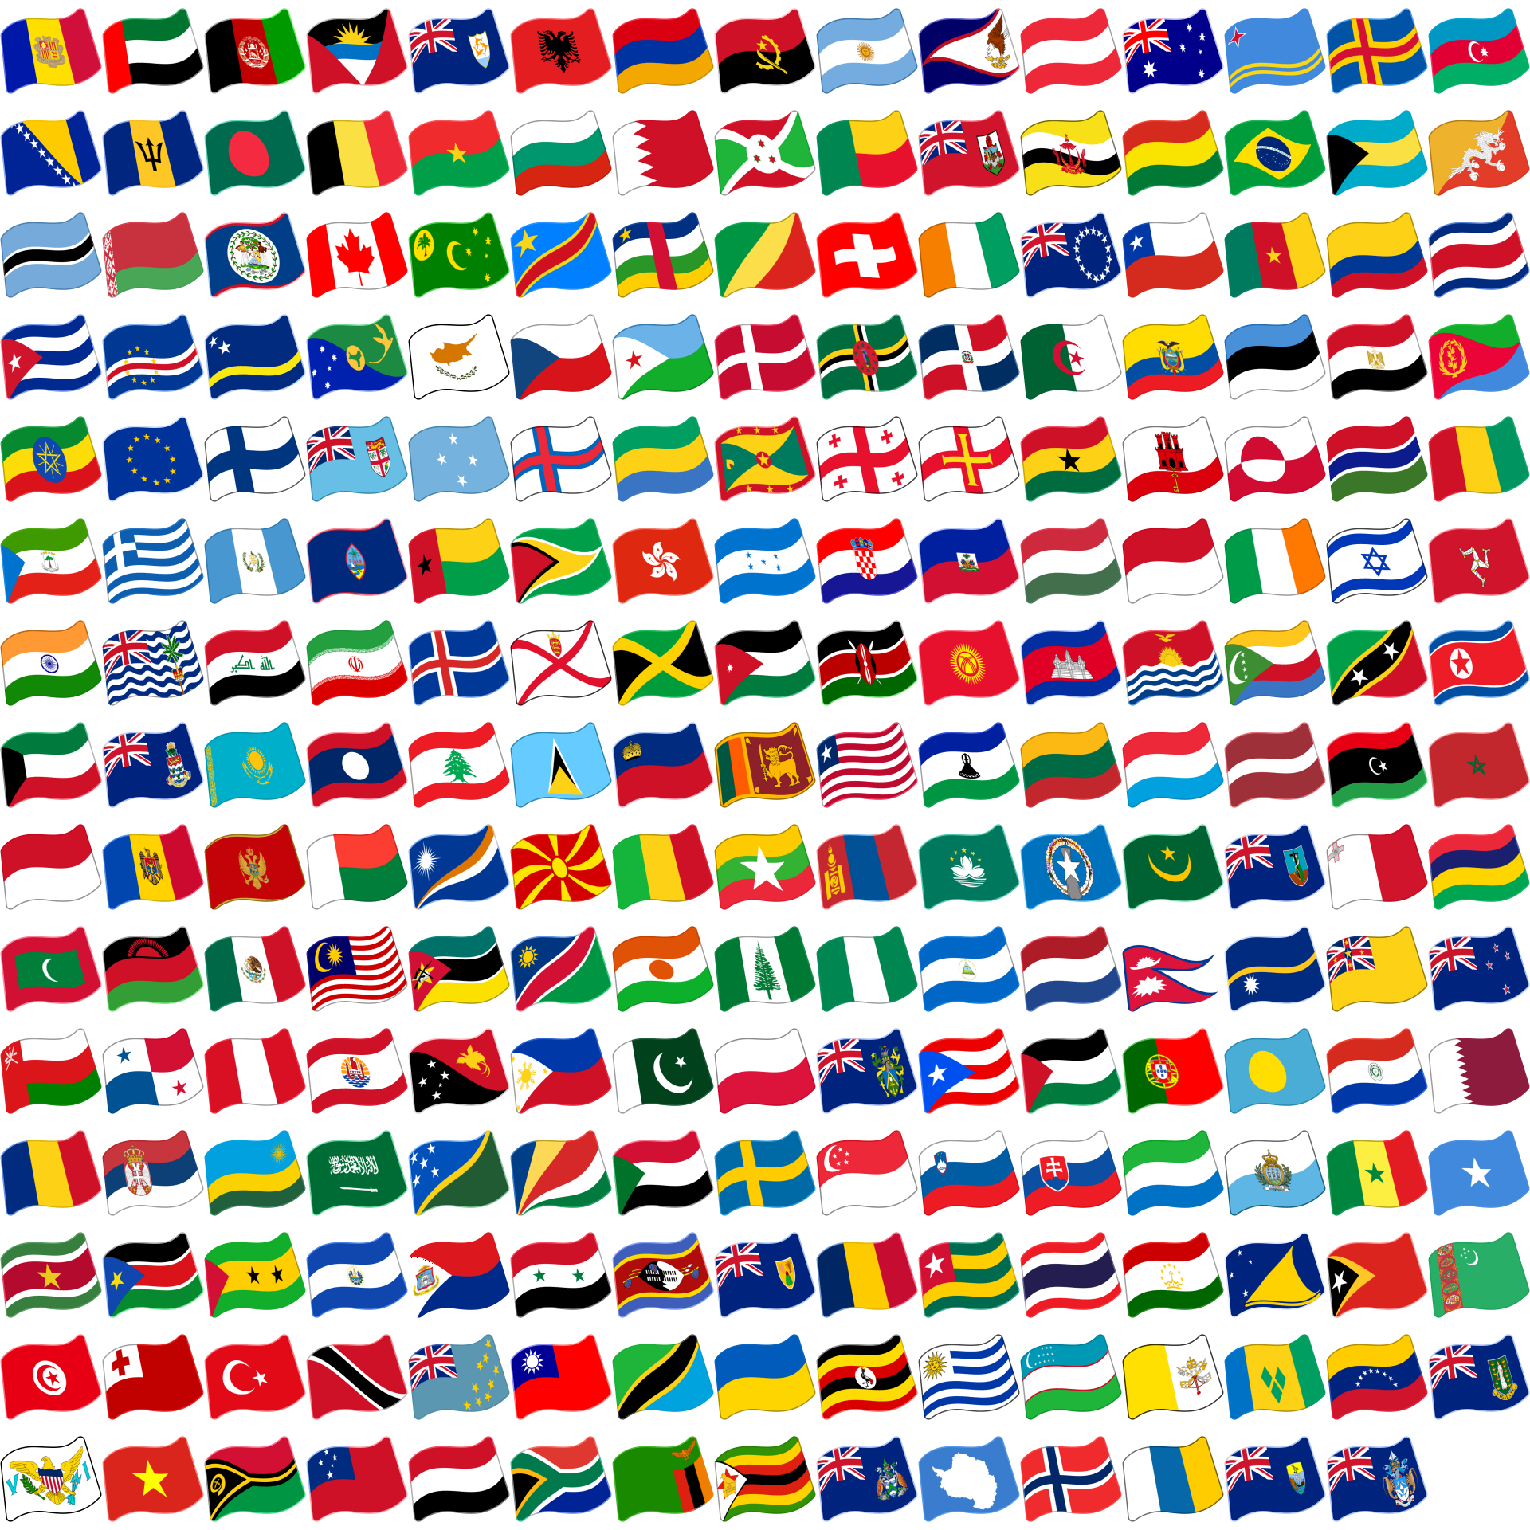
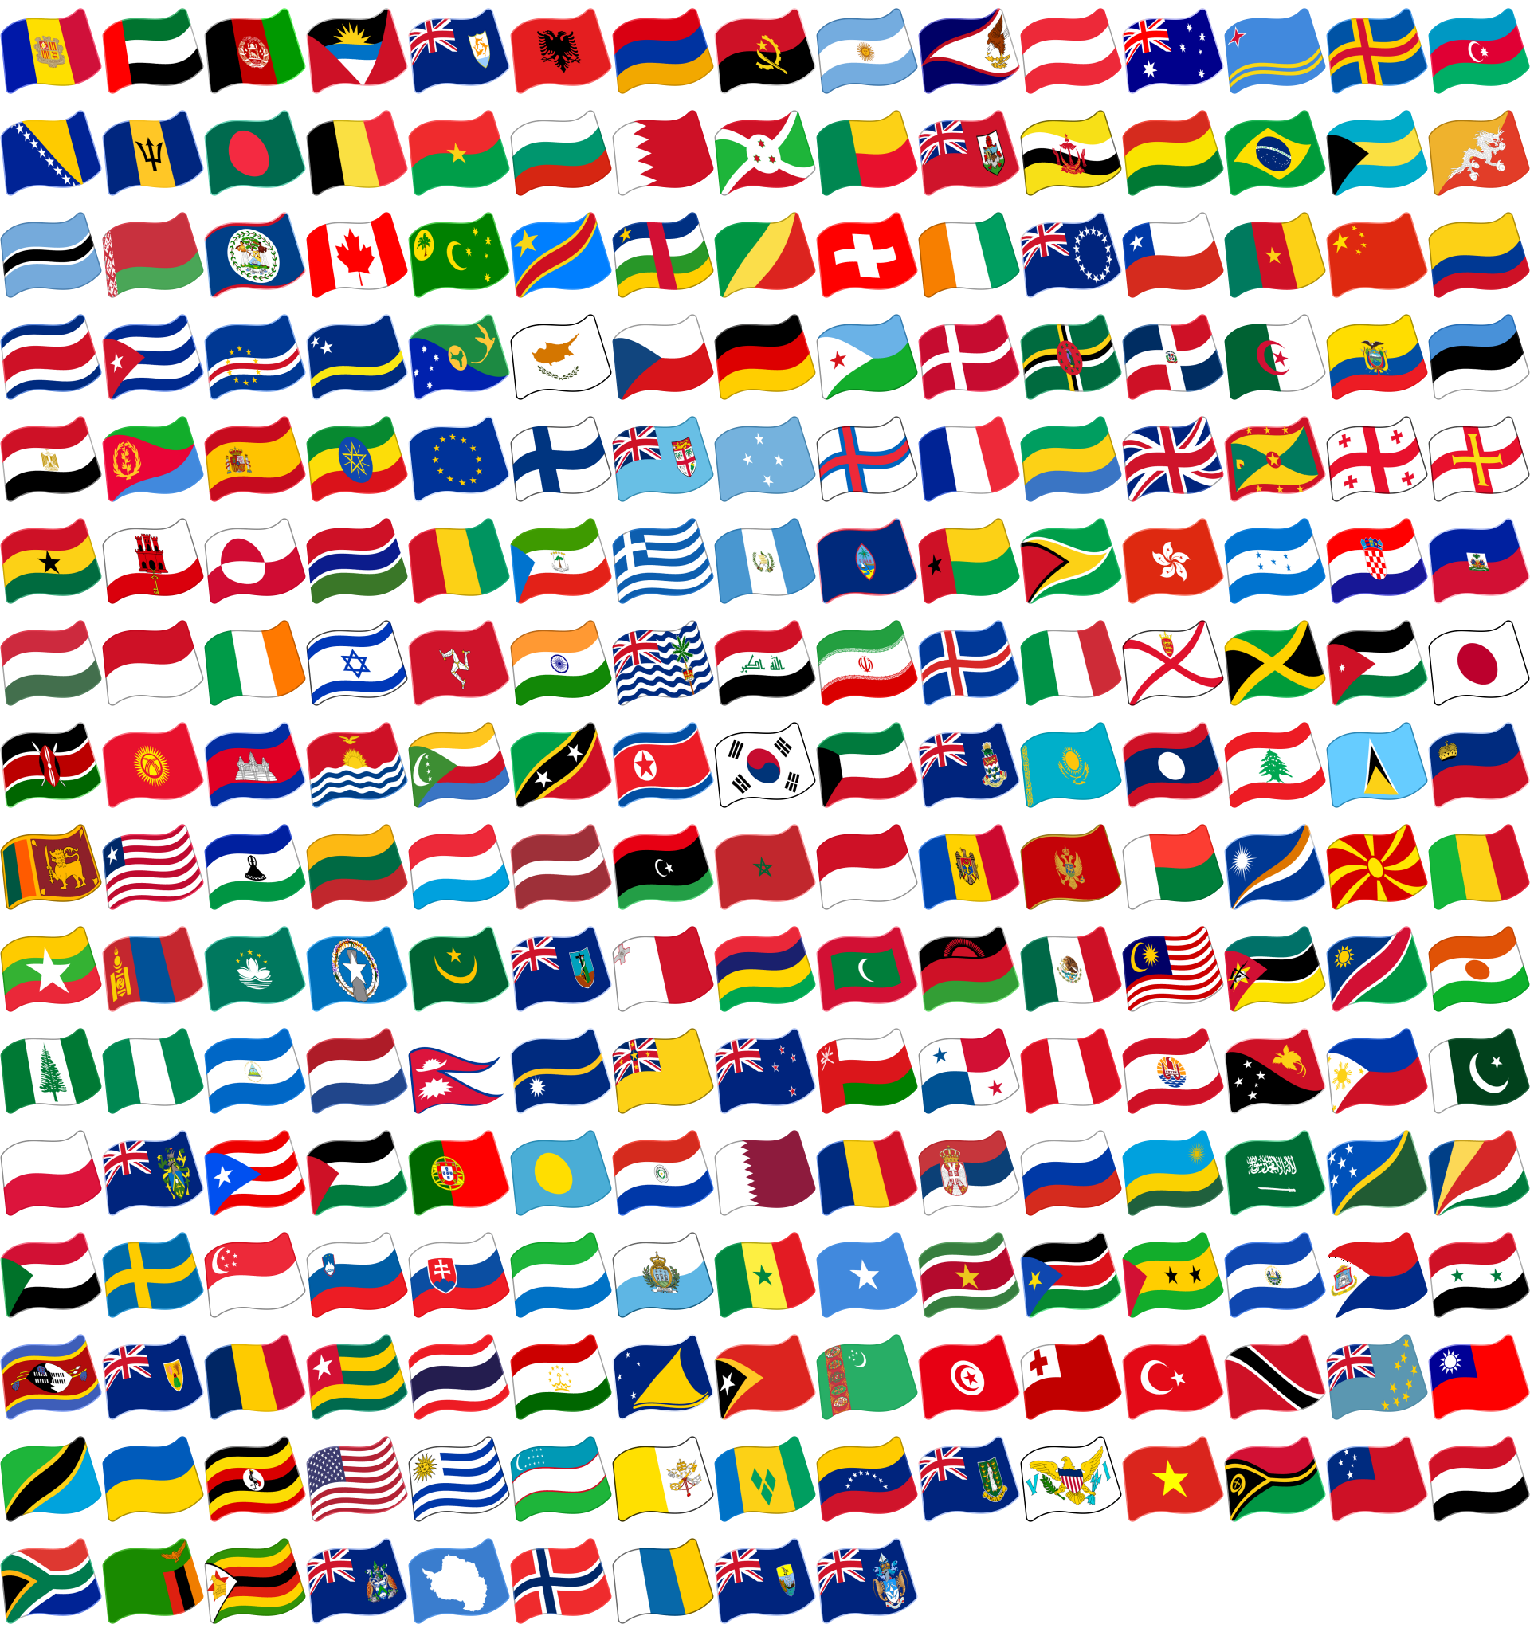
add missing flags
Fixes #510

diff --git a/src/org/smssecure/smssecure/components/emoji/EmojiPages.java b/src/org/smssecure/smssecure/components/emoji/EmojiPages.java
@@ -214,48 +214,51 @@ public class EmojiPages {
       "\ud83c\udde8\ud83c\udde6", "\ud83c\udde8\ud83c\udde8", "\ud83c\udde8\ud83c\udde9",
       "\ud83c\udde8\ud83c\uddeb", "\ud83c\udde8\ud83c\uddec", "\ud83c\udde8\ud83c\udded",
       "\ud83c\udde8\ud83c\uddee", "\ud83c\udde8\ud83c\uddf0", "\ud83c\udde8\ud83c\uddf1",
-      "\ud83c\udde8\ud83c\uddf2", "\ud83c\udde8\ud83c\uddf4", "\ud83c\udde8\ud83c\uddf7",
-      "\ud83c\udde8\ud83c\uddfa", "\ud83c\udde8\ud83c\uddfb", "\ud83c\udde8\ud83c\uddfc",
-      "\ud83c\udde8\ud83c\uddfd", "\ud83c\udde8\ud83c\uddfe", "\ud83c\udde8\ud83c\uddff",
-      "\ud83c\udde9\ud83c\uddef", "\ud83c\udde9\ud83c\uddf0", "\ud83c\udde9\ud83c\uddf2",
-      "\ud83c\udde9\ud83c\uddf4", "\ud83c\udde9\ud83c\uddff", "\ud83c\uddea\ud83c\udde8",
-      "\ud83c\uddea\ud83c\uddea", "\ud83c\uddea\ud83c\uddec", "\ud83c\uddea\ud83c\uddf7",
+      "\ud83c\udde8\ud83c\uddf2", "\ud83c\udde8\ud83c\uddf3", "\ud83c\udde8\ud83c\uddf4",
+      "\ud83c\udde8\ud83c\uddf7", "\ud83c\udde8\ud83c\uddfa", "\ud83c\udde8\ud83c\uddfb",
+      "\ud83c\udde8\ud83c\uddfc", "\ud83c\udde8\ud83c\uddfd", "\ud83c\udde8\ud83c\uddfe",
+      "\ud83c\udde8\ud83c\uddff", "\ud83c\udde9\ud83c\uddea", "\ud83c\udde9\ud83c\uddef",
+      "\ud83c\udde9\ud83c\uddf0", "\ud83c\udde9\ud83c\uddf2", "\ud83c\udde9\ud83c\uddf4",
+      "\ud83c\udde9\ud83c\uddff", "\ud83c\uddea\ud83c\udde8", "\ud83c\uddea\ud83c\uddea",
+      "\ud83c\uddea\ud83c\uddec", "\ud83c\uddea\ud83c\uddf7", "\ud83c\uddea\ud83c\uddf8",
       "\ud83c\uddea\ud83c\uddf9", "\ud83c\uddea\ud83c\uddfa", "\ud83c\uddeb\ud83c\uddee",
       "\ud83c\uddeb\ud83c\uddef", "\ud83c\uddeb\ud83c\uddf2", "\ud83c\uddeb\ud83c\uddf4",
-      "\ud83c\uddec\ud83c\udde6", "\ud83c\uddec\ud83c\udde9", "\ud83c\uddec\ud83c\uddea",
-      "\ud83c\uddec\ud83c\uddec", "\ud83c\uddec\ud83c\udded", "\ud83c\uddec\ud83c\uddee",
-      "\ud83c\uddec\ud83c\uddf1", "\ud83c\uddec\ud83c\uddf2", "\ud83c\uddec\ud83c\uddf3",
-      "\ud83c\uddec\ud83c\uddf6", "\ud83c\uddec\ud83c\uddf7", "\ud83c\uddec\ud83c\uddf9",
-      "\ud83c\uddec\ud83c\uddfa", "\ud83c\uddec\ud83c\uddfc", "\ud83c\uddec\ud83c\uddfe",
-      "\ud83c\udded\ud83c\uddf0", "\ud83c\udded\ud83c\uddf3", "\ud83c\udded\ud83c\uddf7",
-      "\ud83c\udded\ud83c\uddf9", "\ud83c\udded\ud83c\uddfa", "\ud83c\uddee\ud83c\udde9",
-      "\ud83c\uddee\ud83c\uddea", "\ud83c\uddee\ud83c\uddf1", "\ud83c\uddee\ud83c\uddf2",
-      "\ud83c\uddee\ud83c\uddf3", "\ud83c\uddee\ud83c\uddf4", "\ud83c\uddee\ud83c\uddf6",
-      "\ud83c\uddee\ud83c\uddf7", "\ud83c\uddee\ud83c\uddf8", "\ud83c\uddef\ud83c\uddea",
-      "\ud83c\uddef\ud83c\uddf2", "\ud83c\uddef\ud83c\uddf4", "\ud83c\uddf0\ud83c\uddea",
-      "\ud83c\uddf0\ud83c\uddec", "\ud83c\uddf0\ud83c\udded", "\ud83c\uddf0\ud83c\uddee",
-      "\ud83c\uddf0\ud83c\uddf2", "\ud83c\uddf0\ud83c\uddf3", "\ud83c\uddf0\ud83c\uddf5",
-      "\ud83c\uddf0\ud83c\uddfc", "\ud83c\uddf0\ud83c\uddfe", "\ud83c\uddf0\ud83c\uddff",
-      "\ud83c\uddf1\ud83c\udde6", "\ud83c\uddf1\ud83c\udde7", "\ud83c\uddf1\ud83c\udde8",
-      "\ud83c\uddf1\ud83c\uddee", "\ud83c\uddf1\ud83c\uddf0", "\ud83c\uddf1\ud83c\uddf7",
-      "\ud83c\uddf1\ud83c\uddf8", "\ud83c\uddf1\ud83c\uddf9", "\ud83c\uddf1\ud83c\uddfa",
-      "\ud83c\uddf1\ud83c\uddfb", "\ud83c\uddf1\ud83c\uddfe", "\ud83c\uddf2\ud83c\udde6",
-      "\ud83c\uddf2\ud83c\udde8", "\ud83c\uddf2\ud83c\udde9", "\ud83c\uddf2\ud83c\uddea",
-      "\ud83c\uddf2\ud83c\uddec", "\ud83c\uddf2\ud83c\udded", "\ud83c\uddf2\ud83c\uddf0",
-      "\ud83c\uddf2\ud83c\uddf1", "\ud83c\uddf2\ud83c\uddf2", "\ud83c\uddf2\ud83c\uddf3",
-      "\ud83c\uddf2\ud83c\uddf4", "\ud83c\uddf2\ud83c\uddf5", "\ud83c\uddf2\ud83c\uddf7",
-      "\ud83c\uddf2\ud83c\uddf8", "\ud83c\uddf2\ud83c\uddf9", "\ud83c\uddf2\ud83c\uddfa",
-      "\ud83c\uddf2\ud83c\uddfb", "\ud83c\uddf2\ud83c\uddfc", "\ud83c\uddf2\ud83c\uddfd",
-      "\ud83c\uddf2\ud83c\uddfe", "\ud83c\uddf2\ud83c\uddff", "\ud83c\uddf3\ud83c\udde6",
-      "\ud83c\uddf3\ud83c\uddea", "\ud83c\uddf3\ud83c\uddeb", "\ud83c\uddf3\ud83c\uddec",
-      "\ud83c\uddf3\ud83c\uddee", "\ud83c\uddf3\ud83c\uddf1", "\ud83c\uddf3\ud83c\uddf5",
-      "\ud83c\uddf3\ud83c\uddf7", "\ud83c\uddf3\ud83c\uddfa", "\ud83c\uddf3\ud83c\uddff",
-      "\ud83c\uddf4\ud83c\uddf2", "\ud83c\uddf5\ud83c\udde6", "\ud83c\uddf5\ud83c\uddea",
-      "\ud83c\uddf5\ud83c\uddeb", "\ud83c\uddf5\ud83c\uddec", "\ud83c\uddf5\ud83c\udded",
-      "\ud83c\uddf5\ud83c\uddf0", "\ud83c\uddf5\ud83c\uddf1", "\ud83c\uddf5\ud83c\uddf3",
-      "\ud83c\uddf5\ud83c\uddf7", "\ud83c\uddf5\ud83c\uddf8", "\ud83c\uddf5\ud83c\uddf9",
-      "\ud83c\uddf5\ud83c\uddfc", "\ud83c\uddf5\ud83c\uddfe", "\ud83c\uddf6\ud83c\udde6",
-      "\ud83c\uddf7\ud83c\uddf4", "\ud83c\uddf7\ud83c\uddf8", "\ud83c\uddf7\ud83c\uddfc",
+      "\ud83c\uddeb\ud83c\uddf7", "\ud83c\uddec\ud83c\udde6", "\ud83c\uddec\ud83c\udde7",
+      "\ud83c\uddec\ud83c\udde9", "\ud83c\uddec\ud83c\uddea", "\ud83c\uddec\ud83c\uddec",
+      "\ud83c\uddec\ud83c\udded", "\ud83c\uddec\ud83c\uddee", "\ud83c\uddec\ud83c\uddf1",
+      "\ud83c\uddec\ud83c\uddf2", "\ud83c\uddec\ud83c\uddf3", "\ud83c\uddec\ud83c\uddf6",
+      "\ud83c\uddec\ud83c\uddf7", "\ud83c\uddec\ud83c\uddf9", "\ud83c\uddec\ud83c\uddfa",
+      "\ud83c\uddec\ud83c\uddfc", "\ud83c\uddec\ud83c\uddfe", "\ud83c\udded\ud83c\uddf0",
+      "\ud83c\udded\ud83c\uddf3", "\ud83c\udded\ud83c\uddf7", "\ud83c\udded\ud83c\uddf9",
+      "\ud83c\udded\ud83c\uddfa", "\ud83c\uddee\ud83c\udde9", "\ud83c\uddee\ud83c\uddea",
+      "\ud83c\uddee\ud83c\uddf1", "\ud83c\uddee\ud83c\uddf2", "\ud83c\uddee\ud83c\uddf3",
+      "\ud83c\uddee\ud83c\uddf4", "\ud83c\uddee\ud83c\uddf6", "\ud83c\uddee\ud83c\uddf7",
+      "\ud83c\uddee\ud83c\uddf8", "\ud83c\uddee\ud83c\uddf9", "\ud83c\uddef\ud83c\uddea",
+      "\ud83c\uddef\ud83c\uddf2", "\ud83c\uddef\ud83c\uddf4", "\ud83c\uddef\ud83c\uddf5",
+      "\ud83c\uddf0\ud83c\uddea", "\ud83c\uddf0\ud83c\uddec", "\ud83c\uddf0\ud83c\udded",
+      "\ud83c\uddf0\ud83c\uddee", "\ud83c\uddf0\ud83c\uddf2", "\ud83c\uddf0\ud83c\uddf3",
+      "\ud83c\uddf0\ud83c\uddf5", "\ud83c\uddf0\ud83c\uddf7", "\ud83c\uddf0\ud83c\uddfc",
+      "\ud83c\uddf0\ud83c\uddfe", "\ud83c\uddf0\ud83c\uddff", "\ud83c\uddf1\ud83c\udde6",
+      "\ud83c\uddf1\ud83c\udde7", "\ud83c\uddf1\ud83c\udde8", "\ud83c\uddf1\ud83c\uddee",
+      "\ud83c\uddf1\ud83c\uddf0", "\ud83c\uddf1\ud83c\uddf7", "\ud83c\uddf1\ud83c\uddf8",
+      "\ud83c\uddf1\ud83c\uddf9", "\ud83c\uddf1\ud83c\uddfa", "\ud83c\uddf1\ud83c\uddfb",
+      "\ud83c\uddf1\ud83c\uddfe", "\ud83c\uddf2\ud83c\udde6", "\ud83c\uddf2\ud83c\udde8",
+      "\ud83c\uddf2\ud83c\udde9", "\ud83c\uddf2\ud83c\uddea", "\ud83c\uddf2\ud83c\uddec",
+      "\ud83c\uddf2\ud83c\udded", "\ud83c\uddf2\ud83c\uddf0", "\ud83c\uddf2\ud83c\uddf1",
+      "\ud83c\uddf2\ud83c\uddf2", "\ud83c\uddf2\ud83c\uddf3", "\ud83c\uddf2\ud83c\uddf4",
+      "\ud83c\uddf2\ud83c\uddf5", "\ud83c\uddf2\ud83c\uddf7", "\ud83c\uddf2\ud83c\uddf8",
+      "\ud83c\uddf2\ud83c\uddf9", "\ud83c\uddf2\ud83c\uddfa", "\ud83c\uddf2\ud83c\uddfb",
+      "\ud83c\uddf2\ud83c\uddfc", "\ud83c\uddf2\ud83c\uddfd", "\ud83c\uddf2\ud83c\uddfe",
+      "\ud83c\uddf2\ud83c\uddff", "\ud83c\uddf3\ud83c\udde6", "\ud83c\uddf3\ud83c\uddea",
+      "\ud83c\uddf3\ud83c\uddeb", "\ud83c\uddf3\ud83c\uddec", "\ud83c\uddf3\ud83c\uddee",
+      "\ud83c\uddf3\ud83c\uddf1", "\ud83c\uddf3\ud83c\uddf5", "\ud83c\uddf3\ud83c\uddf7",
+      "\ud83c\uddf3\ud83c\uddfa", "\ud83c\uddf3\ud83c\uddff", "\ud83c\uddf4\ud83c\uddf2",
+      "\ud83c\uddf5\ud83c\udde6", "\ud83c\uddf5\ud83c\uddea", "\ud83c\uddf5\ud83c\uddeb",
+      "\ud83c\uddf5\ud83c\uddec", "\ud83c\uddf5\ud83c\udded", "\ud83c\uddf5\ud83c\uddf0",
+      "\ud83c\uddf5\ud83c\uddf1", "\ud83c\uddf5\ud83c\uddf3", "\ud83c\uddf5\ud83c\uddf7",
+      "\ud83c\uddf5\ud83c\uddf8", "\ud83c\uddf5\ud83c\uddf9", "\ud83c\uddf5\ud83c\uddfc",
+      "\ud83c\uddf5\ud83c\uddfe", "\ud83c\uddf6\ud83c\udde6", "\ud83c\uddf7\ud83c\uddf4",
+      "\ud83c\uddf7\ud83c\uddf8", "\ud83c\uddf7\ud83c\uddfa", "\ud83c\uddf7\ud83c\uddfc",
       "\ud83c\uddf8\ud83c\udde6", "\ud83c\uddf8\ud83c\udde7", "\ud83c\uddf8\ud83c\udde8",
       "\ud83c\uddf8\ud83c\udde9", "\ud83c\uddf8\ud83c\uddea", "\ud83c\uddf8\ud83c\uddec",
       "\ud83c\uddf8\ud83c\uddee", "\ud83c\uddf8\ud83c\uddf0", "\ud83c\uddf8\ud83c\uddf1",
@@ -268,13 +271,13 @@ public class EmojiPages {
       "\ud83c\uddf9\ud83c\uddf3", "\ud83c\uddf9\ud83c\uddf4", "\ud83c\uddf9\ud83c\uddf7",
       "\ud83c\uddf9\ud83c\uddf9", "\ud83c\uddf9\ud83c\uddfb", "\ud83c\uddf9\ud83c\uddfc",
       "\ud83c\uddf9\ud83c\uddff", "\ud83c\uddfa\ud83c\udde6", "\ud83c\uddfa\ud83c\uddec",
-      "\ud83c\uddfa\ud83c\uddfe", "\ud83c\uddfa\ud83c\uddff", "\ud83c\uddfb\ud83c\udde6",
-      "\ud83c\uddfb\ud83c\udde8", "\ud83c\uddfb\ud83c\uddea", "\ud83c\uddfb\ud83c\uddec",
-      "\ud83c\uddfb\ud83c\uddee", "\ud83c\uddfb\ud83c\uddf3", "\ud83c\uddfb\ud83c\uddfa",
-      "\ud83c\uddfc\ud83c\uddf8", "\ud83c\uddfe\ud83c\uddea", "\ud83c\uddff\ud83c\udde6",
-      "\ud83c\uddff\ud83c\uddf2", "\ud83c\uddff\ud83c\uddfc", "\ud83c\udde6\ud83c\udde8",
-      "\ud83c\udde6\ud83c\uddf6", "\ud83c\udde7\ud83c\uddfb", "\ud83c\uddee\ud83c\udde8",
-      "\ud83c\uddf8\ud83c\udded", "\ud83c\uddf9\ud83c\udde6",
+      "\ud83c\uddfa\ud83c\uddf8", "\ud83c\uddfa\ud83c\uddfe", "\ud83c\uddfa\ud83c\uddff",
+      "\ud83c\uddfb\ud83c\udde6", "\ud83c\uddfb\ud83c\udde8", "\ud83c\uddfb\ud83c\uddea",
+      "\ud83c\uddfb\ud83c\uddec", "\ud83c\uddfb\ud83c\uddee", "\ud83c\uddfb\ud83c\uddf3",
+      "\ud83c\uddfb\ud83c\uddfa", "\ud83c\uddfc\ud83c\uddf8", "\ud83c\uddfe\ud83c\uddea",
+      "\ud83c\uddff\ud83c\udde6", "\ud83c\uddff\ud83c\uddf2", "\ud83c\uddff\ud83c\uddfc",
+      "\ud83c\udde6\ud83c\udde8", "\ud83c\udde6\ud83c\uddf6", "\ud83c\udde7\ud83c\uddfb",
+      "\ud83c\uddee\ud83c\udde8", "\ud83c\uddf8\ud83c\udded", "\ud83c\uddf9\ud83c\udde6",
     }, "emoji_flags.png"),
     new StaticEmojiPageModel(R.attr.emoji_category_emoticons, new String[] {
       ":-)",          ";-)",          "(-:",          ":->",          ":-D",          "\\o/",

diff --git a/scripts/emoji-extractor/emoji-extractor.py b/scripts/emoji-extractor/emoji-extractor.py
@@ -83,3 +83,15 @@ for emoji in emojis:
                     os.rename(args.output + '/emoji_' + emoji + '.png', args.output + '/emoji_u' + code + '.png')
                 except:
                     print '!! Cannot fix emoji_' + emoji + '.png'
+
+# Some flags aren't correctly sorted
+os.rename(args.output + '/emoji_ufe4e5.png', args.output + '/emoji_u1f1ef_u1f1f5.png')
+os.rename(args.output + '/emoji_ufe4e6.png', args.output + '/emoji_u1f1fa_u1f1f8.png')
+os.rename(args.output + '/emoji_ufe4e7.png', args.output + '/emoji_u1f1eb_u1f1f7.png')
+os.rename(args.output + '/emoji_ufe4e8.png', args.output + '/emoji_u1f1e9_u1f1ea.png')
+os.rename(args.output + '/emoji_ufe4e9.png', args.output + '/emoji_u1f1ee_u1f1f9.png')
+os.rename(args.output + '/emoji_ufe4ea.png', args.output + '/emoji_u1f1ec_u1f1e7.png')
+os.rename(args.output + '/emoji_ufe4eb.png', args.output + '/emoji_u1f1ea_u1f1f8.png')
+os.rename(args.output + '/emoji_ufe4ec.png', args.output + '/emoji_u1f1f7_u1f1fa.png')
+os.rename(args.output + '/emoji_ufe4ed.png', args.output + '/emoji_u1f1e8_u1f1f3.png')
+os.rename(args.output + '/emoji_ufe4ee.png', args.output + '/emoji_u1f1f0_u1f1f7.png')
